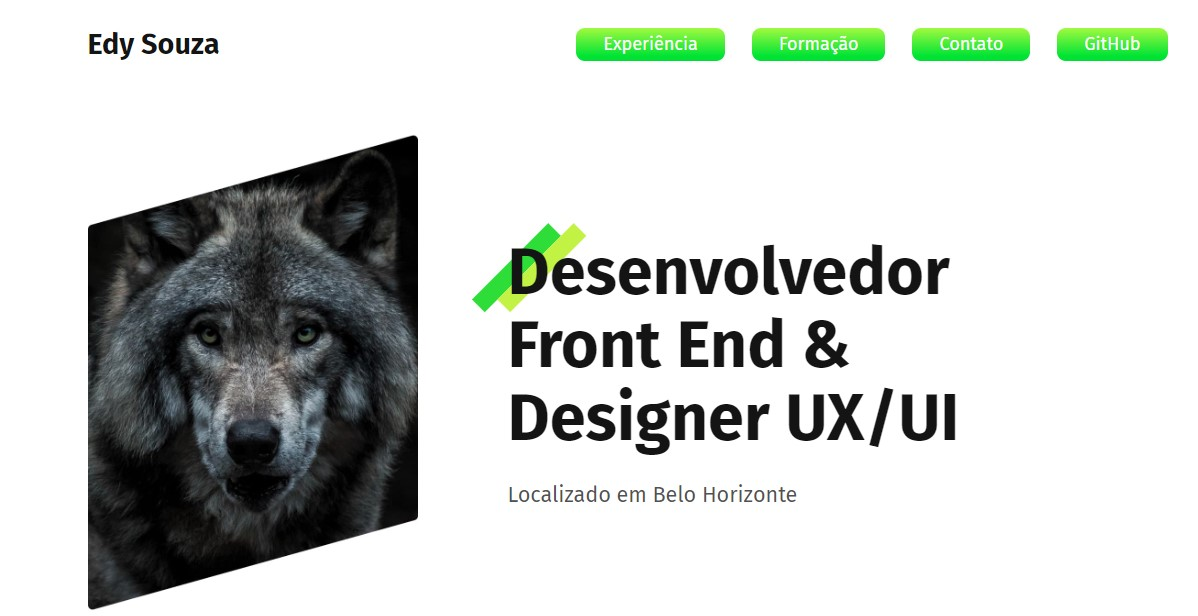
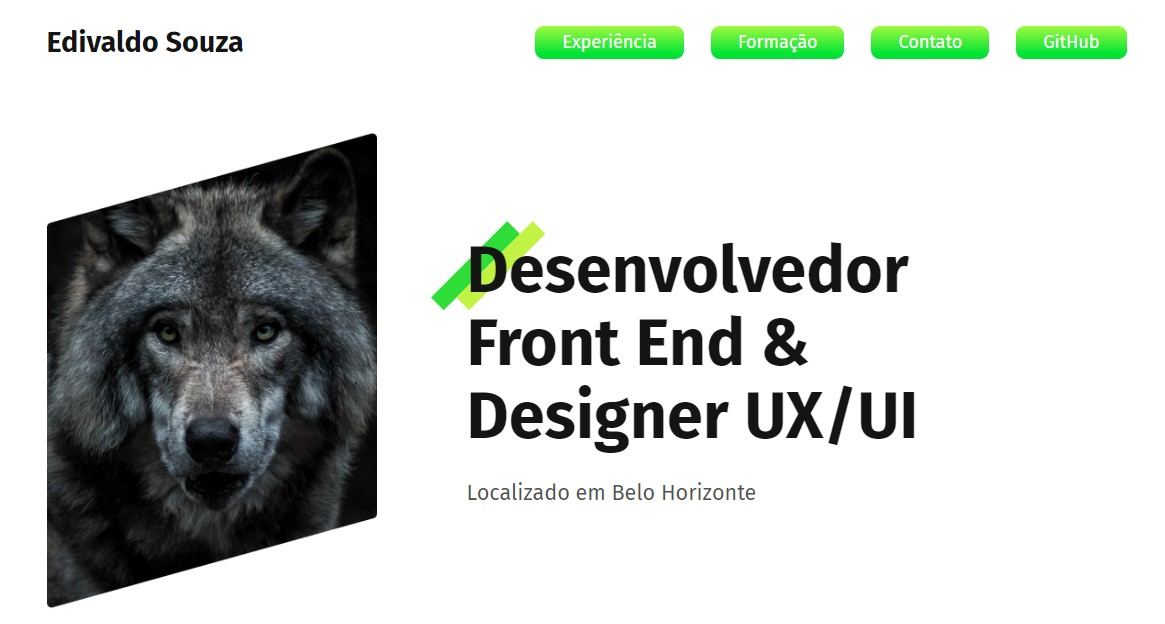
Readme

diff --git a/index.html b/index.html
@@ -14,7 +14,7 @@
 <body>
 
     <header class="header">
-        <h1>Edy Souza</h1>
+        <h1>Edivaldo Souza</h1>
         <nav>
             <ul class="header-menu">
                 <li><a href="#experiencia">Experiência</a></li>

diff --git a/README.md b/README.md
@@ -2,5 +2,13 @@
 
 <img src="./img/pagina.jpg" alt="Imagem da tela inicial do site">
 
-Este é um projeto no qual é apresentado meu currículo digital.
-git 
+Este é um projeto no qual é apresentado meu currículo digital
+com uma descrição detalhada das minhas Hard Skills e Soft Skills.
+
+## Tecnologia Utilizadas 
+HTML
+CSS
+Figma 
+
+
+
